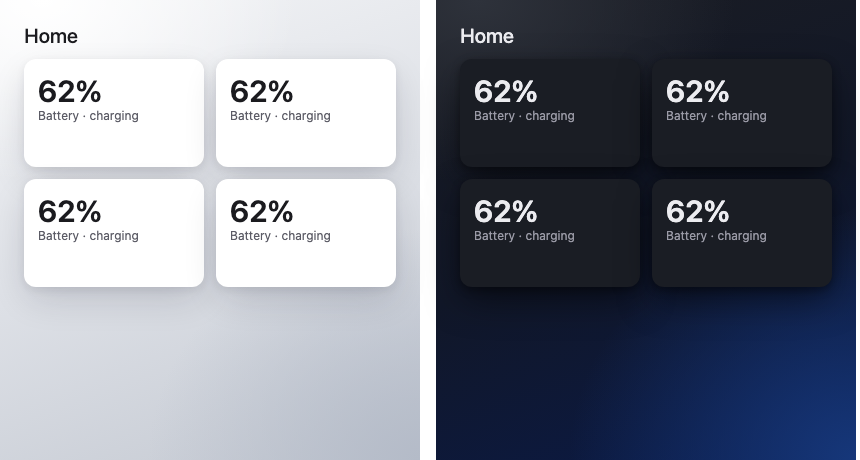
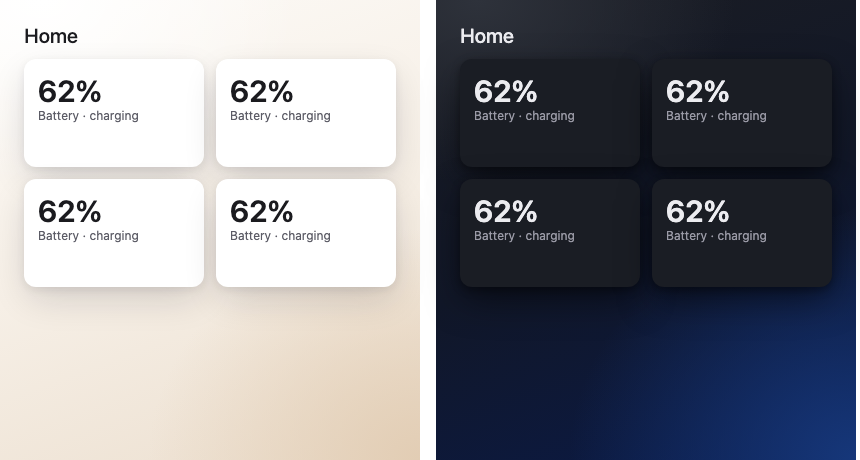
Light mode: warm white gradient deepening to soft sand, page, header and sidebar warmed to match, warmer card shadow

Changed region(s): [[0.0, 0.3043, 0.514, 1.0]]

diff --git a/README.md b/README.md
@@ -4,7 +4,7 @@ A Home Assistant theme to go with [Halo Cards](https://github.com/themistoapp/ha
 
 ![Halo theme, light and dark](images/preview.png)
 
-- **Light:** soft grey with a pale glow at the top left.
+- **Light:** warm white with a bright glow at the top left, deepening to soft sand.
 - **Dark:** graphite deepening to midnight blue.
 - Text, dividers and cards in the Halo cards' colours; 12px corners, Halo's soft shadow and no hairline border.
 - Ink accent, with toggles and sliders in Halo blue.
